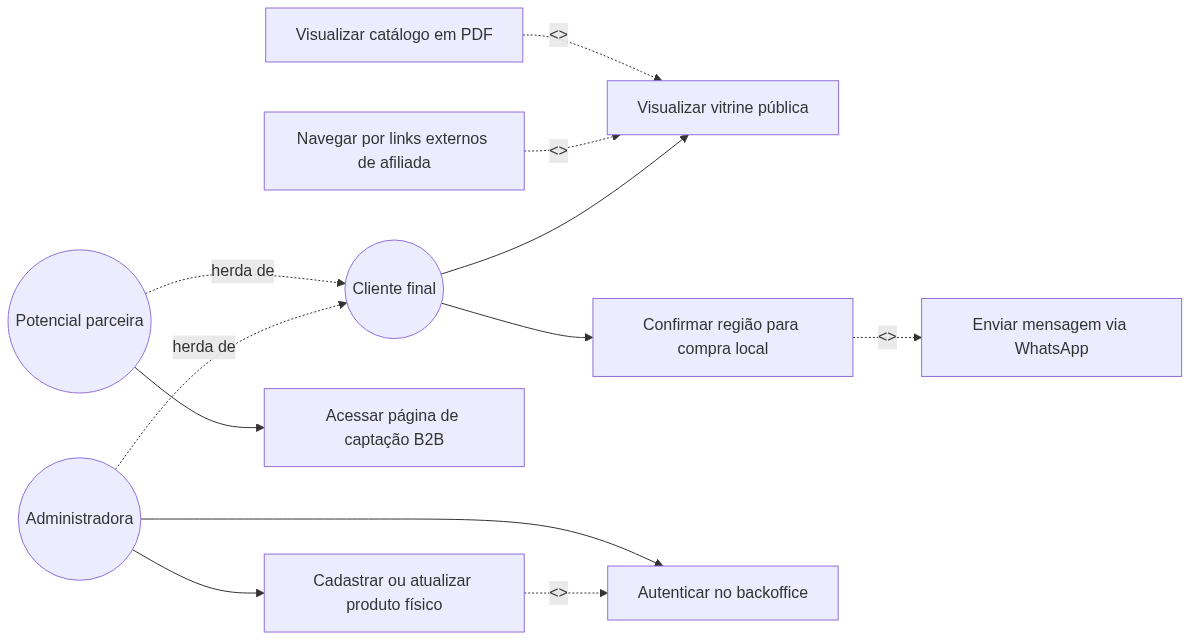
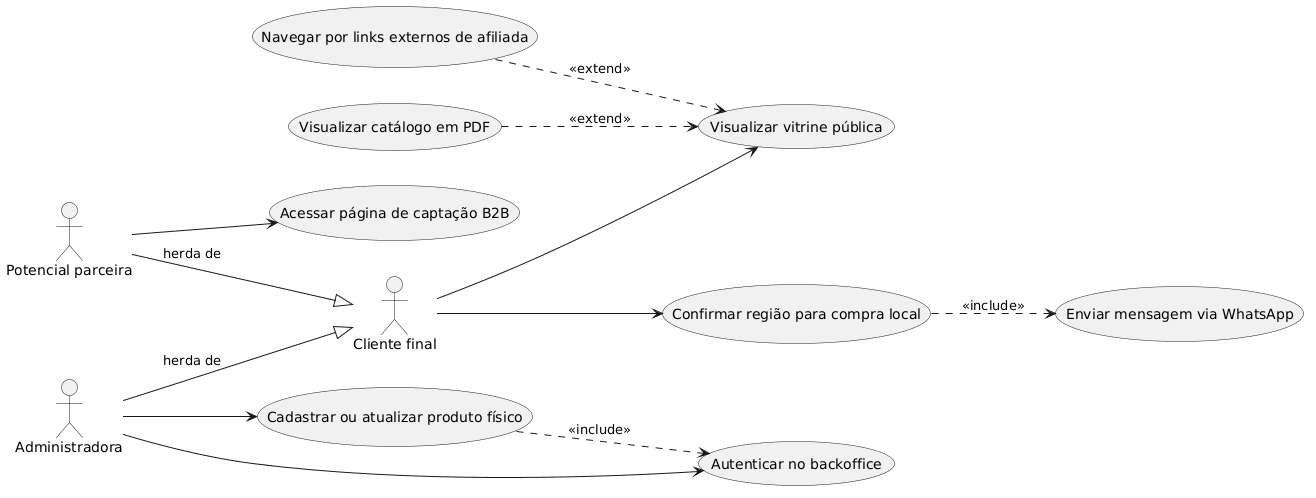
Docs/apresentacao lab eng sw (#11)
* "Primeira apresentação do projeto para a disciplina de Laboratório de Engenharia de Software."

* docs: Alteração no diagrama de casos de uso para a apresentação de lab. eng. sw.

diff --git a/docs/primeira-apresentacao-lab-eng-sw.html b/docs/primeira-apresentacao-lab-eng-sw.html
@@ -326,7 +326,7 @@
           Natural</p>
         <p style="font-size: 24px; color: var(--text-muted);">Contextualização e Modelagem Inicial do Problema</p>
         <p style="margin-top: 40px; font-size: 20px; color: var(--text-main);">
-          Antônio Prado Horta &nbsp;•&nbsp; Luiz Henrique Reis &nbsp;•&nbsp; membro 3
+          Antônio Prado Horta &nbsp;•&nbsp; Luiz Henrique Reis &nbsp;•&nbsp; Pedro Henrique de Freitas Frogeri
         </p>
         <p
           style="position: absolute; bottom: 48px; left: 0; width: 100%; text-align: center; margin: 0; font-size: 20px; color: var(--accent-primary);">
@@ -339,11 +339,18 @@
         <h2 class="slide-title">Sumário</h2>
         <div class="slide-card">
           <ul style="list-style-type: none; padding: 0; margin: 0; color: var(--text-main);">
-            <li style="font-size: 28px; margin-bottom: 30px;"><strong style="color: var(--accent-primary); margin-right: 8px;">1.</strong> Minimundo (Contexto e Problema)</li>
-            <li style="font-size: 28px; margin-bottom: 30px;"><strong style="color: var(--accent-primary); margin-right: 8px;">2.</strong> Requisitos Funcionais (RF)</li>
-            <li style="font-size: 28px; margin-bottom: 30px;"><strong style="color: var(--accent-primary); margin-right: 8px;">3.</strong> Requisitos Não Funcionais (RNF)</li>
-            <li style="font-size: 28px; margin-bottom: 30px;"><strong style="color: var(--accent-primary); margin-right: 8px;">4.</strong> Diagrama de Casos de Uso (DCU)</li>
-            <li style="font-size: 28px;"><strong style="color: var(--accent-primary); margin-right: 8px;">5.</strong> Descrição de Caso de Uso (Fluxos e Exceções)</li>
+            <li style="font-size: 28px; margin-bottom: 30px;"><strong
+                style="color: var(--accent-primary); margin-right: 8px;">1.</strong> Minimundo (Contexto e Problema)
+            </li>
+            <li style="font-size: 28px; margin-bottom: 30px;"><strong
+                style="color: var(--accent-primary); margin-right: 8px;">2.</strong> Requisitos Funcionais (RF)</li>
+            <li style="font-size: 28px; margin-bottom: 30px;"><strong
+                style="color: var(--accent-primary); margin-right: 8px;">3.</strong> Requisitos Não Funcionais (RNF)
+            </li>
+            <li style="font-size: 28px; margin-bottom: 30px;"><strong
+                style="color: var(--accent-primary); margin-right: 8px;">4.</strong> Diagrama de Casos de Uso (DCU)</li>
+            <li style="font-size: 28px;"><strong style="color: var(--accent-primary); margin-right: 8px;">5.</strong>
+              Descrição de Caso de Uso (Fluxos e Exceções)</li>
           </ul>
         </div>
       </div>

diff --git a/docs/arquitetura/03-casos-de-uso.md b/docs/arquitetura/03-casos-de-uso.md
@@ -11,23 +11,39 @@
 
 ## Diagrama de casos de uso
 
-```mermaid
-flowchart LR
-    Cliente((Cliente final))
-    Parceira((Potencial parceira))
-    Admin((Administradora))
-    Admin -.->|"herda de"| Cliente
-    Parceira -.->|"herda de"| Cliente
+```plantuml
+@startuml
+left to right direction
+skinparam actorStyle stick
 
-    Cliente --> UC01[Visualizar vitrine pública]
-    Cliente --> UC02[Confirmar região para compra local]
-    UC02 -.->|"<<include>>"| UC03[Enviar mensagem via WhatsApp]
-    UC04[Navegar por links externos de afiliada] -.->|"<<extend>>"| UC01
-    UC05[Visualizar catálogo em PDF] -.->|"<<extend>>"| UC01
-    Parceira --> UC06[Acessar página de captação B2B]
-    Admin --> UC07[Cadastrar ou atualizar produto físico]
-    UC07 -.->|"<<include>>"| UC08[Autenticar no backoffice]
-    Admin --> UC08[Autenticar no backoffice]
+actor "Cliente final" as Cliente
+actor "Potencial parceira" as Parceira
+actor "Administradora" as Admin
+
+Admin --|> Cliente : herda de
+Parceira --|> Cliente : herda de
+
+usecase "Visualizar vitrine pública" as UC01
+usecase "Confirmar região para compra local" as UC02
+usecase "Enviar mensagem via WhatsApp" as UC03
+usecase "Navegar por links externos de afiliada" as UC04
+usecase "Visualizar catálogo em PDF" as UC05
+usecase "Acessar página de captação B2B" as UC06
+usecase "Cadastrar ou atualizar produto físico" as UC07
+usecase "Autenticar no backoffice" as UC08
+
+Cliente --> UC01
+Cliente --> UC02
+UC02 ..> UC03 : <<include>>
+UC04 ..> UC01 : <<extend>>
+UC05 ..> UC01 : <<extend>>
+
+Parceira --> UC06
+
+Admin --> UC07
+UC07 ..> UC08 : <<include>>
+Admin --> UC08
+@enduml
 ```
 
 > Leitura: `UC02` **sempre** executa `UC03` (include — o link do WhatsApp só é gerado após a confirmação da região). `UC04` e `UC05` são opcionais e apenas estendem a vitrine pública em ponto de extensão (extend). `UC07` sempre inclui `UC08` (autenticação obrigatória antes de gerenciar estoque).
